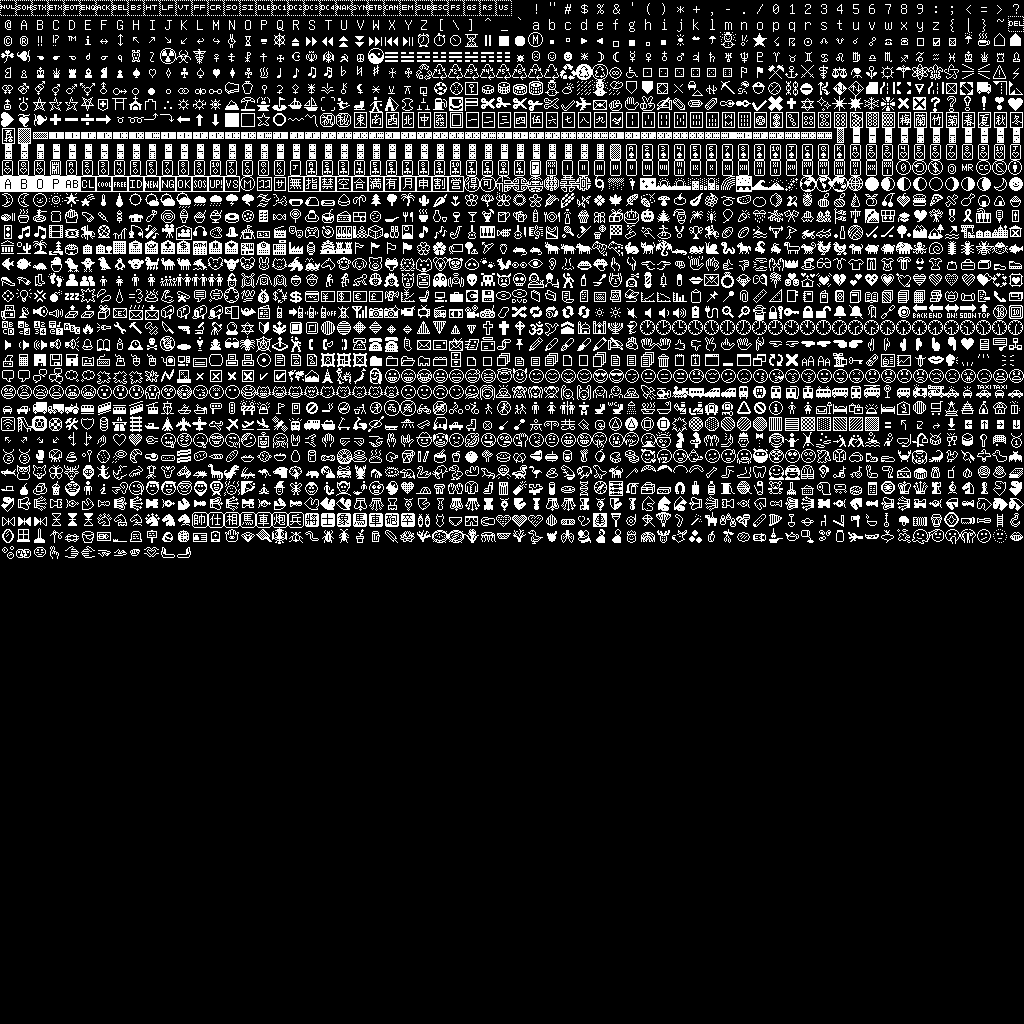
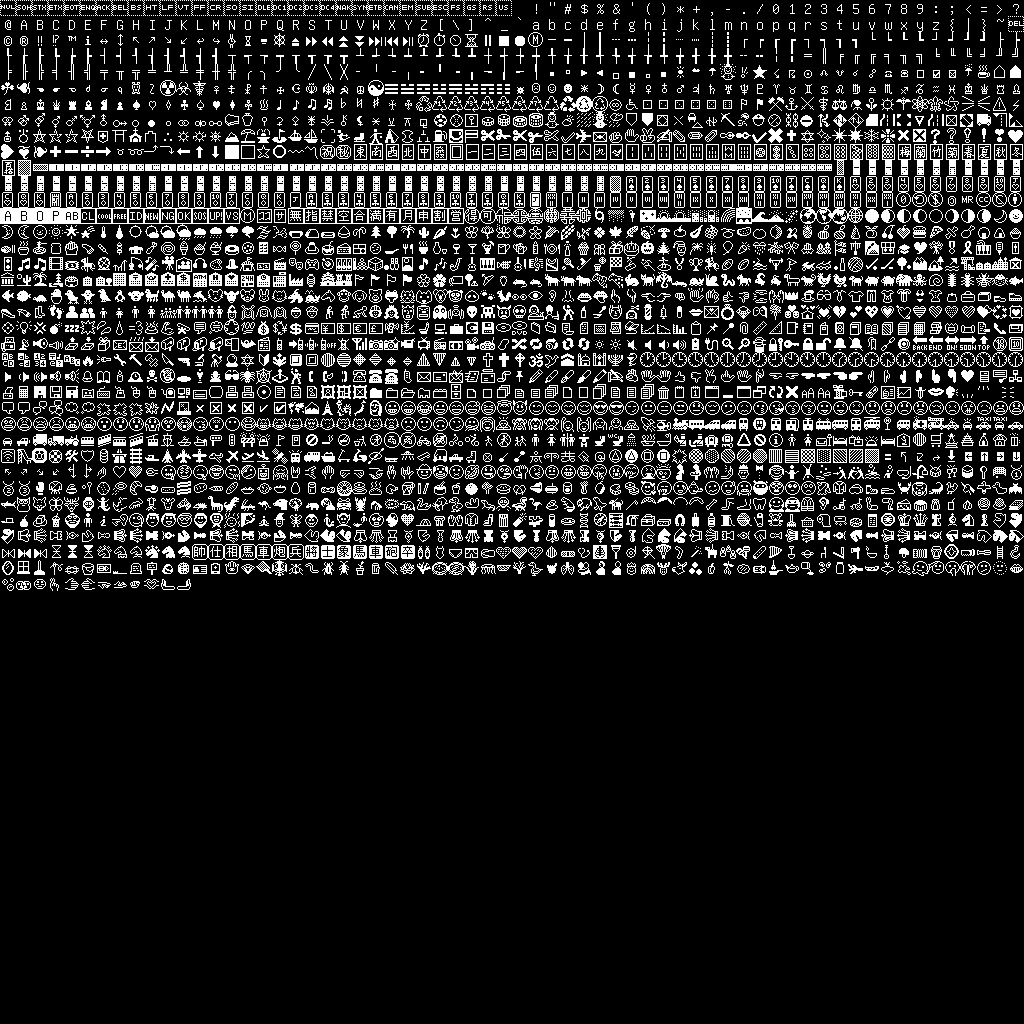
Unifont: Add Box Drawing characters to atlas

Changed region(s): [[0.0, 0.0312, 1.0, 0.5938]]

diff --git a/unifont/unifont.py b/unifont/unifont.py
@@ -8,7 +8,7 @@ with open('unifont.hex', 'r') as file:
         code, value = line.strip().split(':')
         index = int(code, 16)
         c = chr(index)
-        if ud.is_extended_pictographic(c) or index < 128:
+        if ud.is_extended_pictographic(c) or index < 128 or 'drawing' in ud.block(c).lower():
             unidata[index] = value
             
 print("Lines:"+str(lines))
